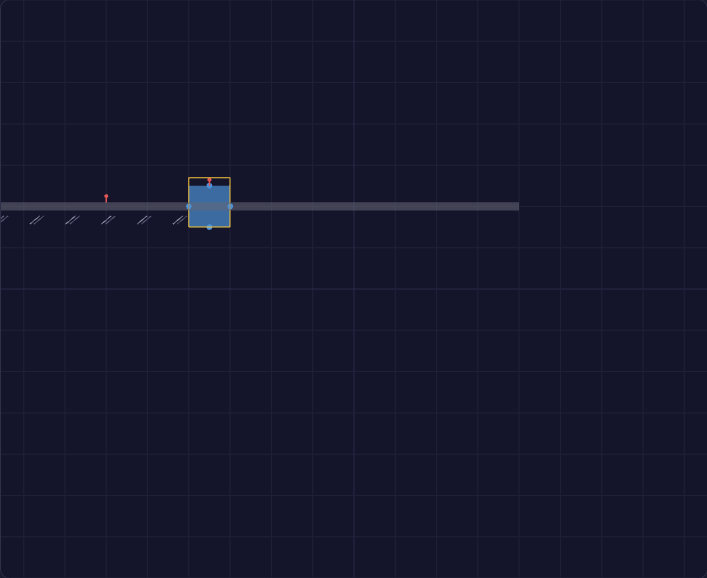
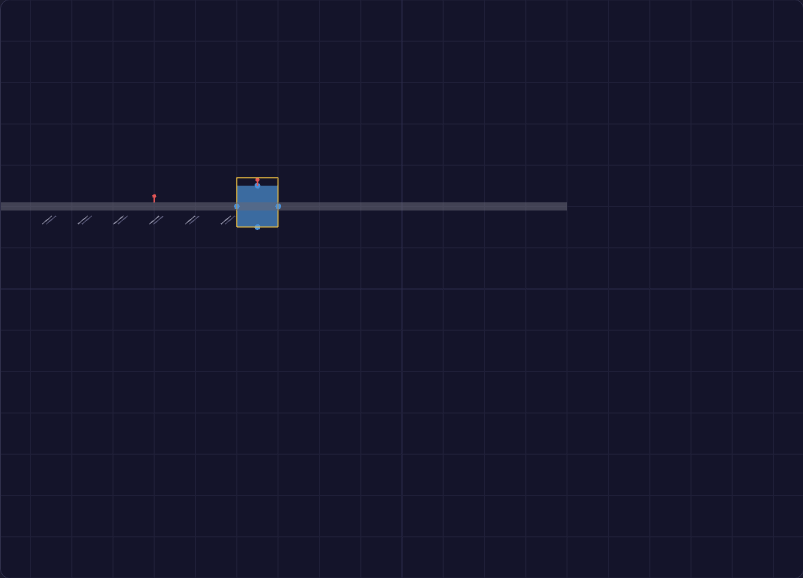
feat(Step2·2.2): 四面板迁移——AI 助教/ECharts 曲线/回放时间轴/OCR 拍照识题
① AI 助教：BuilderAi 从底栏移到左栏 AI tab（左栏 AI 模式时加宽至 340px）
  已有 4 模式（分析/提示/讲解/变式）+ chat API + 离线回退
② ECharts 曲线：CurvePanel.vue 共享组件——读 WS 单例 vSeries/ekSeries/pSeries
  v-t 图 + 双 y 轴（速度+能量）+ 每 6 帧更新
③ 回放时间轴：ReplayPanel.vue——REST 分页拉全帧 + 播放/暂停 + scrub
  watch simId 重置 + 30fps 步进
④ OCR：📷 拍照识题按钮 + file input + /ocr/upload API
  成功→推荐元件加入画布 + undo 快照 + 置信度 toast
  （ghost 预览为后续批——当前直接加入，学生可 Ctrl+Z 撤销）

验证：vitest 371/371 + lab 12/12 + f13 27/27 + free-build 14/14
+ circuit 11/11 + batch2 15/15 + TSC 全绿

diff --git a/frontend/src/builder/BuilderView.vue b/frontend/src/builder/BuilderView.vue
@@ -15,6 +15,8 @@ import DataPanel from './components/DataPanel.vue'
 import BuilderAi from './components/BuilderAi.vue'
 import { analyze } from './analysis/EngineAnalyzer'
 import CriticalPanel from './analysis/CriticalPanel.vue'
+import CurvePanel from './components/CurvePanel.vue'
+import ReplayPanel from './components/ReplayPanel.vue'
 import { useRunBridge } from './run/RunBridge'
 import { TEMPLATES, instantiate, templateById } from './templates/registry'
 
@@ -29,6 +31,49 @@ const sceneName = ref('未命名场景')
 const domain = toRef(workspace, 'domain')   // 追问2 补丁：切 Tab 保留
 // Step2·2.1（2026-10-10）：单页壳——左栏/底栏可切换
 const leftTab = ref<'palette' | 'ai'>('palette')
+// Step2·2.2：OCR 拍照识题（从 LabView 迁入——ghost 预览后续批做）
+const fileInput = ref<HTMLInputElement>()
+const ocrBusy = ref(false)
+function pickImage() { fileInput.value?.click() }
+async function onImageChosen(ev: Event) {
+  const input = ev.target as HTMLInputElement
+  const file = input.files?.[0]
+  input.value = ''
+  if (!file) return
+  ocrBusy.value = true
+  say('正在识别题目…（OCR + 解析约需 10-15 秒）')
+  try {
+    const form = new FormData()
+    form.append('file', file)
+    const { http } = await import('../api/http')
+    const resp = (await http.post('/ocr/upload', form, {
+      headers: { 'Content-Type': 'multipart/form-form' }, timeout: 60_000,
+    })) as { degraded?: boolean; fallbackHint?: string; recommendedElements?: any[]; confidence?: number }
+    ocrBusy.value = false
+    if (resp.degraded) { say(`识别未成功：${resp.fallbackHint ?? '建议手动搭建'}`); return }
+    const els = resp.recommendedElements ?? []
+    if (els.length) {
+      snapshot()
+      for (const pe of els) {
+        const spec = byType.get(pe.type)
+        if (spec) {
+          elements.push({
+            id: `${pe.type}-${workspace.seq++}`, type: pe.type,
+            position: { x: pe.position?.x ?? 0, y: pe.position?.y ?? 0 },
+            angle: pe.angle ?? 0,
+            params: { ...defaultsOf(spec), ...(pe.params ?? {}) },
+            isFixed: spec.role === 'constraint' || spec.role === 'field',
+            role: spec.role, links: [],
+          })
+        }
+      }
+      say(`📷 AI 推荐场景已加入（${els.length} 件，置信度 ${((resp.confidence ?? 0) * 100).toFixed(0)}%）`)
+    } else { say('识别成功但无推荐元件') }
+  } catch (e) {
+    ocrBusy.value = false
+    say('识题失败：' + String(e).replace('Error: ', ''))
+  }
+}
 const bottomTab = ref<'props' | 'data' | 'replay'>('props')
 const search = ref('')
 // D1 Step1·1.1（2026-10-07）：场景本体迁共享 store（模块级 reactive 单例）——
@@ -468,8 +513,8 @@ watch(() => JSON.stringify(elements.map((e) => [e.type, e.params, e.links])), ()
         </div>
         <div v-if="saved.length" class="saved"><h4>本机场景</h4><div v-for="s in saved" :key="s.id" class="srow"><a @click="loadScene(s)">{{ s.name }}</a><small>{{ s.at }}</small><button @click="deleteScene(s)">×</button></div></div>
         </div>
-        <div v-show="leftTab === 'ai'" class="ai-placeholder">
-          <p>AI 助教面板（Step 2.2 迁入）</p>
+        <div v-show="leftTab === 'ai'" class="ai-content">
+          <BuilderAi :elements="elements" :records="records" :scene-name="sceneName" :engines-title="elements.length ? `统一搭建：${analysis.title}` : undefined" :notes="analysis.warnings" />
         </div>
       </aside>
 
@@ -487,6 +532,8 @@ watch(() => JSON.stringify(elements.map((e) => [e.type, e.params, e.links])), ()
           <button :disabled="sim.status === 'idle' && bridge.tsRun.value.status === 'idle'" @click="resetRun" title="清除运行状态，场景回到运行前（不清空画布）">🔄 复位</button>
           <button @click="canvasRef?.resetView()" title="平移/缩放/环绕回到初始视角（不动元件）">⌖ 复位视角</button>
           <button :class="{ active: showTemplates }" @click="showTemplates = !showTemplates">📚 模板</button>
+          <button :disabled="ocrBusy" @click="pickImage" title="拍照/上传题目图片 → AI 识别推荐场景">📷 拍照识题</button>
+          <input ref="fileInput" type="file" accept="image/jpeg,image/png" style="display:none" @change="onImageChosen">
           <span class="spacer"></span>
           <span v-if="sim.status !== 'idle'" class="runstate">
             {{ sim.status === 'running' ? `▶ 运行中 t=${sim.currentT.toFixed(2)}s` : sim.status === 'paused' ? `⏸ 已暂停 t=${sim.currentT.toFixed(2)}s` : `⏹ 已结束 t=${sim.currentT.toFixed(2)}s（${sim.keyEvents.length} 事件）` }}
@@ -566,11 +613,9 @@ watch(() => JSON.stringify(elements.map((e) => [e.type, e.params, e.links])), ()
     </div>
     <section class="bottom">
       <DataPanel v-show="bottomTab === 'data'" :records="records" @clear="records = []" />
-      <BuilderAi v-show="leftTab === 'ai'" :elements="elements" :records="records" :scene-name="sceneName" :engines-title="elements.length ? `统一搭建：${analysis.title}` : undefined" :notes="analysis.warnings" />
-      <!-- Step2·2.1：回放占位（2.2 迁入 LabView 回放时间轴） -->
-      <div v-show="bottomTab === 'replay'" class="replay-placeholder">
-        <p>回放时间轴（Step 2.2 迁入）</p>
-      </div>
+      <CurvePanel v-show="bottomTab === 'data'" />
+
+      <ReplayPanel v-show="bottomTab === 'replay'" />
     </section>
   </main>
 </template>
@@ -630,6 +675,7 @@ watch(() => JSON.stringify(elements.map((e) => [e.type, e.params, e.links])), ()
 .bottombar-tabs { display: flex; gap: 4px; padding: 6px 16px 0; }
 .bottombar-tabs button { padding: 4px 14px; background: #1d1d33; color: #8a8aa0; border: 1px solid #2f2f4a; border-bottom: none; border-radius: 6px 6px 0 0; cursor: pointer; font-size: 12px; }
 .bottombar-tabs button.on { background: #253a52; color: #7fc3ff; font-weight: 600; }
+.ai-content { flex: 1; overflow-y: auto; padding: 4px; }
 .ai-placeholder, .replay-placeholder { padding: 40px; text-align: center; color: #565675; font-size: 13px; cursor: not-allowed; opacity: 0.5; background: repeating-linear-gradient(45deg, #1d1d33, #1d1d33 10px, #23233a 10px, #23233a 20px); }
 @media (max-width: 1100px) { .work { grid-template-columns: 1fr; } .bottom { grid-template-columns: 1fr; } }
 </style>

diff --git a/frontend/src/builder/components/ReplayPanel.vue b/frontend/src/builder/components/ReplayPanel.vue
@@ -1,0 +1,94 @@
+<script setup lang="ts">
+/**
+ * Step2·2.2：回放时间轴面板——从 LabView 提取为共享组件。
+ * REST 帧拉取 + 播放/暂停 + scrub。
+ */
+import { onUnmounted, reactive, ref, watch } from 'vue'
+import { useSimulationSocket } from '../../composables/useSimulationSocket'
+import { http } from '../../api/http'
+
+const { state } = useSimulationSocket()
+const toast = ref('')
+
+const replay = reactive({
+  available: false,
+  playing: false,
+  t: 0,
+  frames: [] as { t: number; snapshotType: string; snapshot: any }[],
+  timer: 0,
+})
+
+async function loadReplay() {
+  if (!state.recordId) { toast.value = '尚无回放记录（先运行）'; return }
+  try {
+    const first = (await http.get(`/records/${state.recordId}`, { params: { page: 0, size: 500 } })) as any
+    let frames = [...(first.frames ?? [])]
+    const totalPages = Math.ceil((first.total ?? frames.length) / 500)
+    for (let p = 1; p < totalPages; p++) {
+      const nxt = (await http.get(`/records/${state.recordId}`, { params: { page: p, size: 500 } })) as any
+      frames = frames.concat(nxt.frames ?? [])
+    }
+    if (frames.length) {
+      replay.frames = frames
+      replay.available = true
+      toast.value = `已加载 ${frames.length} 帧`
+    }
+  } catch { toast.value = '回放加载失败' }
+}
+
+function toggleReplay() {
+  replay.playing = !replay.playing
+  if (replay.playing) {
+    replay.timer = window.setInterval(() => {
+      const cur = replay.frames.findIndex((f) => f.t >= replay.t)
+      const nxt = replay.frames[cur + 1]
+      if (!nxt) { toggleReplay(); return }
+      replay.t = nxt.t
+      applyFrame(nxt)
+    }, 1000 / 30)
+  } else {
+    window.clearInterval(replay.timer)
+  }
+}
+
+function applyFrame(frame: { snapshot: any }) {
+  const snap = frame.snapshot
+  if (snap?.elements) state.subjects = snap.elements
+}
+
+function onScrub(ev: Event) {
+  replay.t = +(ev.target as HTMLInputElement).value
+  const frame = replay.frames.find((f) => f.t >= replay.t)
+  if (frame) applyFrame(frame)
+}
+
+watch(() => state.simId, () => { replay.available = false; replay.frames = []; replay.t = 0 })
+onUnmounted(() => window.clearInterval(replay.timer))
+</script>
+
+<template>
+  <div class="replay-panel">
+    <h4>🎬 回放时间轴</h4>
+    <div v-if="replay.available" class="controls">
+      <button @click="toggleReplay">{{ replay.playing ? '⏸ 暂停' : '▶ 播放' }}</button>
+      <span class="time">t={{ replay.t.toFixed(2) }}s / {{ (replay.frames.at(-1)?.t ?? 0).toFixed(2) }}s</span>
+      <input type="range" :min="0" :max="replay.frames.at(-1)?.t ?? 1" :step="0.01"
+             :value="replay.t" @input="onScrub" class="scrub">
+    </div>
+    <p v-else class="hint">运行结束后点击加载回放</p>
+    <button @click="loadReplay" :disabled="!state.recordId">⇩ 加载回放帧</button>
+    <p v-if="toast" class="toast">{{ toast }}</p>
+  </div>
+</template>
+
+<style scoped>
+.replay-panel { flex: 1; min-width: 300px; padding: 8px; }
+.replay-panel h4 { font-size: 13px; color: #b0b0cc; margin-bottom: 8px; }
+.controls { display: flex; align-items: center; gap: 8px; margin-bottom: 6px; }
+.controls button { background: #2b5c8f; color: #fff; border: none; border-radius: 6px; padding: 5px 12px; cursor: pointer; }
+.controls .time { color: #3ecf8e; font-size: 12px; white-space: nowrap; }
+.scrub { flex: 1; }
+.hint { color: #565675; font-size: 12px; }
+.replay-panel > button { background: #23233a; color: #b0b0cc; border: 1px solid #2f2f4a; border-radius: 6px; padding: 5px 12px; cursor: pointer; margin-top: 6px; }
+.toast { color: #3ecf8e; font-size: 11px; margin-top: 4px; }
+</style>

diff --git a/frontend/src/builder/components/CurvePanel.vue b/frontend/src/builder/components/CurvePanel.vue
@@ -1,0 +1,65 @@
+<script setup lang="ts">
+/**
+ * Step2·2.2：ECharts 曲线面板——从 LabView 提取为共享组件。
+ * 数据源：useSimulationSocket 单例（vSeries/vIds/ekSeries/pSeries）——BuilderView/LabView 同源消费。
+ */
+import { onMounted, onUnmounted, ref, watch } from 'vue'
+import * as echarts from 'echarts'
+import { useSimulationSocket } from '../../composables/useSimulationSocket'
+
+const { state } = useSimulationSocket()
+const chartRef = ref<HTMLDivElement>()
+let chart: echarts.ECharts | null = null
+
+onMounted(() => {
+  if (!chartRef.value) return
+  chart = echarts.init(chartRef.value)
+  chart.setOption({
+    darkMode: true, animation: false,
+    grid: { left: 46, right: 52, top: 28, bottom: 26 },
+    legend: { textStyle: { color: '#8a8aa0', fontSize: 11 }, top: 0 },
+    tooltip: { trigger: 'axis' },
+    xAxis: { type: 'value', name: 't/s', axisLabel: { color: '#8a8aa0' },
+      splitLine: { lineStyle: { color: '#23233a' } } },
+    yAxis: [
+      { type: 'value', name: 'v (m/s)', axisLabel: { color: '#8a8aa0' },
+        splitLine: { lineStyle: { color: '#23233a' } } },
+      { type: 'value', name: 'Ek/p', axisLabel: { color: '#8a8aa0' }, splitLine: { show: false } },
+    ],
+    series: [],
+  })
+})
+
+onUnmounted(() => chart?.dispose())
+
+watch(() => state.frameCount, (n) => {
+  if (!chart || n % 6 !== 0) return
+  const series: echarts.SeriesOption[] = []
+  state.vSeries.forEach((s, i) => {
+    const id = state.vIds[i] ?? `主体${i + 1}`
+    series.push({ name: `${id}.vx`, type: 'line', showSymbol: false,
+      data: s.map((p) => [p.t, +p.vx.toFixed(3)]) })
+    series.push({ name: `${id}.vy`, type: 'line', showSymbol: false,
+      lineStyle: { type: 'dashed', opacity: 0.7 },
+      data: s.map((p) => [p.t, +p.vy.toFixed(3)]) })
+  })
+  series.push({ name: '总动能 Ek', type: 'line', showSymbol: false, yAxisIndex: 1,
+    data: state.ekSeries.map((p) => [p.t, +p.v.toFixed(3)]) })
+  series.push({ name: '总动量模 p', type: 'line', showSymbol: false, yAxisIndex: 1,
+    data: state.pSeries.map((p) => [p.t, +p.v.toFixed(3)]) })
+  chart.setOption({ series }, { replaceMerge: ['series'] })
+})
+</script>
+
+<template>
+  <div class="curve-panel">
+    <h4>📈 数据曲线</h4>
+    <div ref="chartRef" class="chart" style="width:100%;height:220px"></div>
+  </div>
+</template>
+
+<style scoped>
+.curve-panel { flex: 1; min-width: 300px; }
+.curve-panel h4 { font-size: 13px; color: #b0b0cc; margin-bottom: 6px; }
+.chart { background: #14142a; border-radius: 8px; }
+</style>
